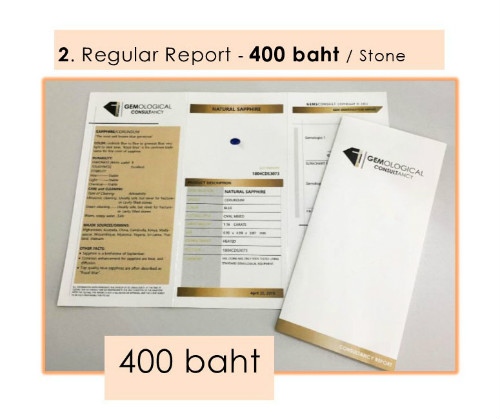
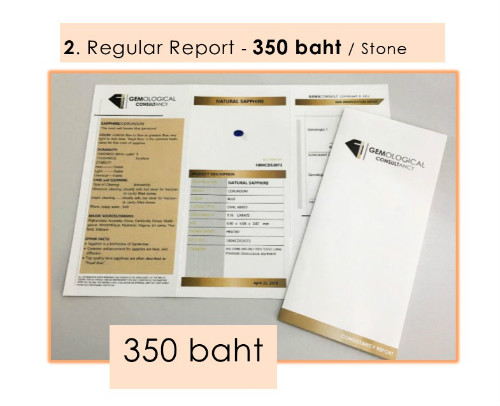
update photo 2019-01-17

diff --git a/src/components/PageServices.vue b/src/components/PageServices.vue
@@ -26,16 +26,16 @@
                                 <div>
                                     <p class="p-type-3 color-grey margin-t20">
                                         <ol>
-                                            <li>  600 BAHT/STONE</li>
-                                            <li>  400 BAHT/STONE</li>
-                                            <li>  300 BAHT/STONE</li>
+                                            <li>  800 BAHT/STONE</li>
+                                            <li>  350 BAHT/STONE</li>
+                                            <li>  350 BAHT/STONE</li>
                                             <li>  200 BAHT/STONE</li>
                                         </ol>
                                     </p>
                                     <p class="p-type-3 color-grey margin-t20">ONE REPORT CAN BE CONTAINED MULTIPLE STONES DETAILS WITH ADDITIONAL FEE OF 100 BAHT PER STONE.</p>
                                     <div class="example">
                                         <p class="p-type-3 color-grey margin-t20">FOR EXAMPLE:</p>
-                                        <p class="p-type-3 color-grey margin-t20">ONE REPORT (NUMBER 1, 600 BAHT) FOR A PAIR OF RUBIES = THE TOTAL FEE IS 700 BAHT. (600 + 100)</p>
+                                        <p class="p-type-3 color-grey margin-t20">ONE REPORT (NUMBER 1, 800 BAHT) FOR A PAIR OF RUBIES = THE TOTAL FEE IS 900 BAHT. (800 + 100)</p>
                                     </div>
                                 </div>
                             </div>
